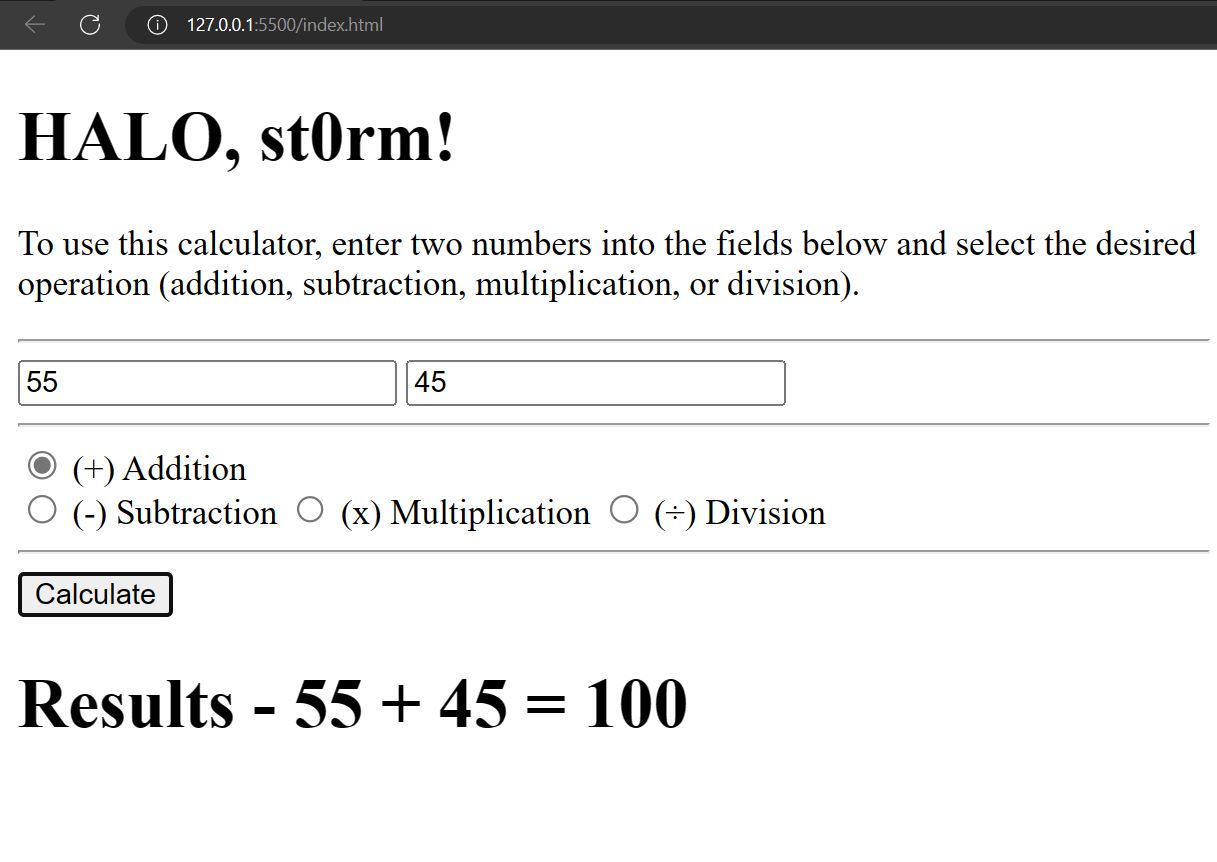
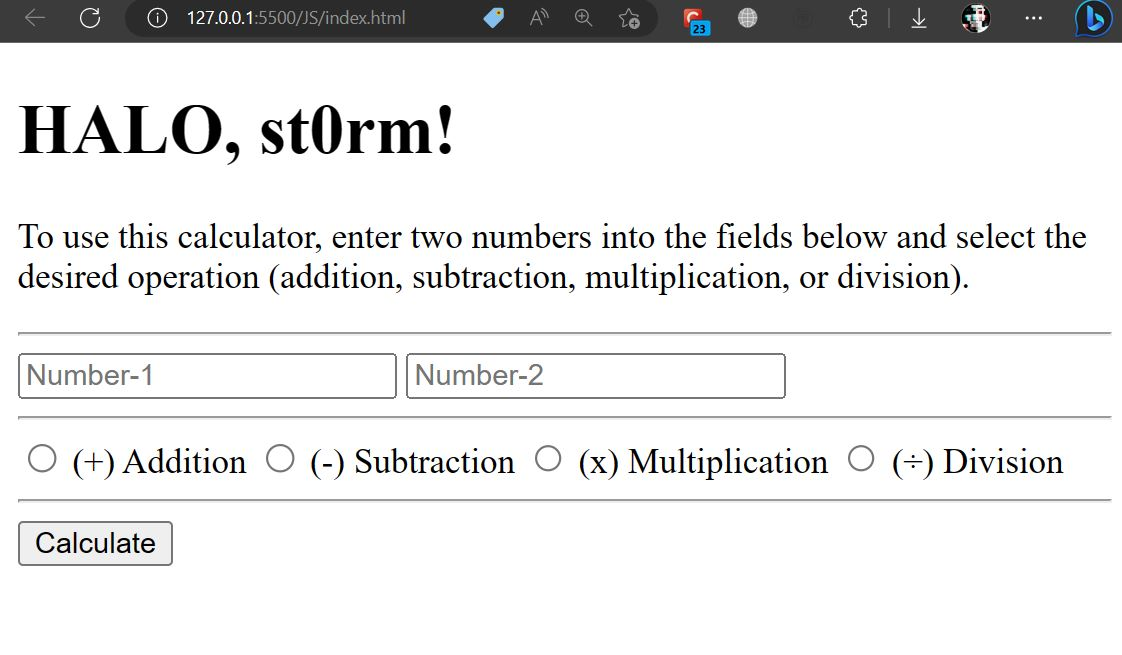
Updated UI (radio-group)

diff --git a/JS/index.html b/JS/index.html
@@ -19,7 +19,7 @@
     <input type="text" id="num1" name="num1" placeholder="Number-1">
     <input type="text" id="num2" name="num2" placeholder="Number-2"><br>
     <hr>
-    <input type="radio" name="ORG" id="addition" value="add"> (+) Addition <br>
+    <input type="radio" name="ORG" id="addition" value="add"> (+) Addition
     <input type="radio" name="ORG" id="subtraction" value="sub"> (-) Subtraction
     <input type="radio" name="ORG" id="multiplication" value="mul"> (x) Multiplication
     <input type="radio" name="ORG" id="division" value="div"> (÷) Division 
